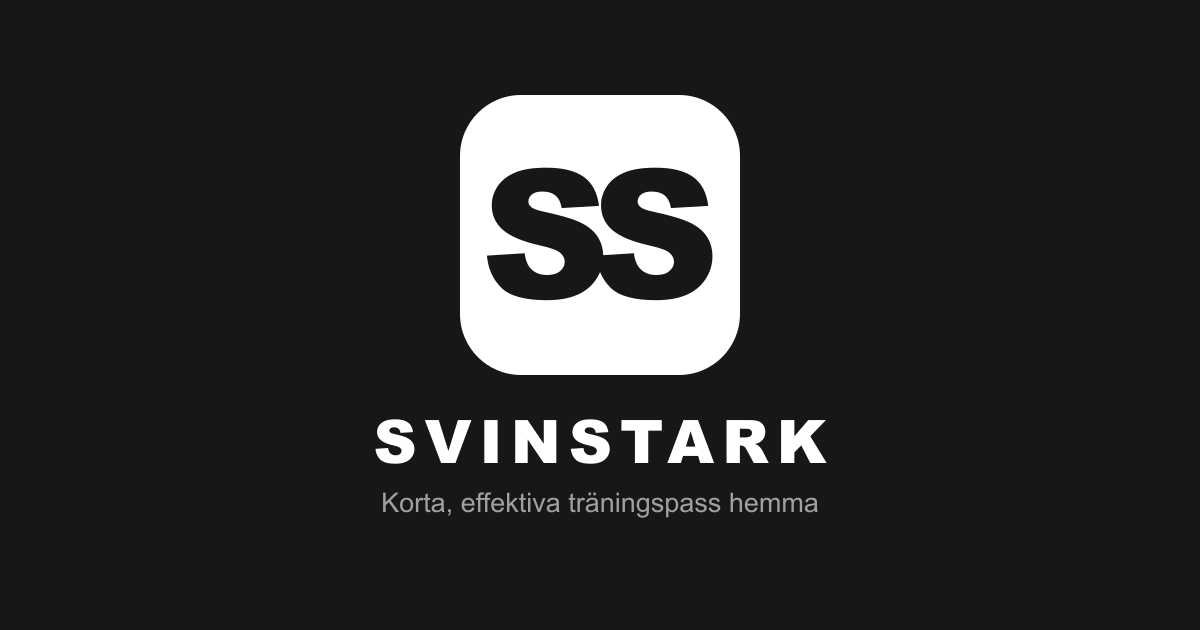
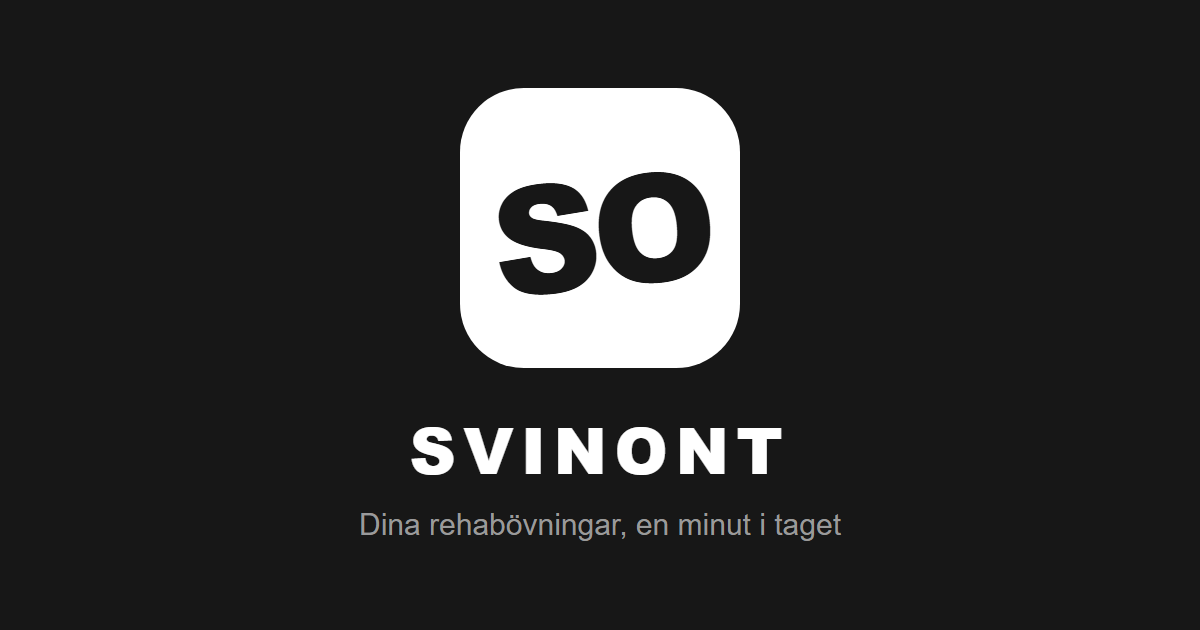
Polera texter, övningar och grafik inför mobiltest
- SO-märke i alla ikoner, favicon och og-bild (ersätter Svinstarks SS)
- Startsidan: "Funktion · Rörlighet · Kontroll", "14 övningar på 14
  minuter", hinttext borttagen
- Ensidiga övningar har nu "byt sida/ben efter halva tiden" e.d.
- Spanish squat ersatt med Wall sit (utan utrustning)
- Miniband/Gummiband -> Träningsband
- Slutsidan: endast "Till startsidan" som vit knapp
- Ny om-text med tydlig vårddisclaimer

diff --git a/src/data/rehabExercises.ts b/src/data/rehabExercises.ts
@@ -22,7 +22,7 @@ export const rehabExercises: Exercise[] = [
   {
     id: "thoracic-rotation",
     name: "Thorakal rotation",
-    instruction: "Rotera bröstryggen kontrollerat. Följ handen med blicken.",
+    instruction: "Rotera bröstryggen kontrollerat. Byt sida efter halva tiden.",
     category: "Mobilitet",
     focus: "Rygg",
     defaultDuration: DEFAULT_EXERCISE_DURATION_SECONDS,
@@ -41,7 +41,7 @@ export const rehabExercises: Exercise[] = [
     instruction: "Dra bandet isär framför bröstet. Kläm ihop skulderbladen.",
     category: "Styrka",
     focus: "Rygg",
-    equipment: "Gummiband",
+    equipment: "Träningsband",
     defaultDuration: DEFAULT_EXERCISE_DURATION_SECONDS,
   },
   {
@@ -50,13 +50,13 @@ export const rehabExercises: Exercise[] = [
     instruction: "Dra bandet mot ansiktet. Armbågarna högt, axlarna avslappnade.",
     category: "Styrka",
     focus: "Rygg",
-    equipment: "Gummiband",
+    equipment: "Träningsband",
     defaultDuration: DEFAULT_EXERCISE_DURATION_SECONDS,
   },
   {
     id: "bird-dog",
     name: "Bird dog",
-    instruction: "Sträck motsatt arm och ben. Håll bålen stabil.",
+    instruction: "Sträck motsatt arm och ben. Håll bålen stabil. Växla sida.",
     category: "Stabilitet",
     focus: "Rygg",
     defaultDuration: DEFAULT_EXERCISE_DURATION_SECONDS,
@@ -64,7 +64,7 @@ export const rehabExercises: Exercise[] = [
   {
     id: "dead-bug",
     name: "Dead bug",
-    instruction: "Ligg på rygg. Sänk motsatt arm och ben, håll ländryggen stilla.",
+    instruction: "Ligg på rygg. Sänk motsatt arm och ben, håll ländryggen stilla. Växla sida.",
     category: "Stabilitet",
     focus: "Rygg",
     defaultDuration: DEFAULT_EXERCISE_DURATION_SECONDS,
@@ -73,41 +73,40 @@ export const rehabExercises: Exercise[] = [
   {
     id: "single-leg-balance",
     name: "Enbensbalans",
-    instruction: "Stå stadigt på ett ben. Byt ben halvvägs.",
+    instruction: "Stå stadigt på ett ben. Byt ben efter halva tiden.",
     category: "Stabilitet",
     focus: "Knä",
     defaultDuration: DEFAULT_EXERCISE_DURATION_SECONDS,
   },
   {
-    id: "spanish-squat",
-    name: "Spanish squat",
-    instruction: "Band bakom knäna, sätt dig bakåt med rak rygg. (Alt: väggsittning.)",
+    id: "wall-sit",
+    name: "Wall sit",
+    instruction: "Sitt mot väggen med knäna i cirka 90 grader. Håll positionen.",
     category: "Styrka",
     focus: "Knä",
-    equipment: "Gummiband",
     defaultDuration: DEFAULT_EXERCISE_DURATION_SECONDS,
   },
   {
     id: "step-down",
     name: "Step-down",
-    instruction: "Kontrollerad sänkning. Låt knät följa fotens riktning.",
+    instruction: "Kontrollerad sänkning. Låt knät följa fotens riktning. Byt ben efter halva tiden.",
     category: "Styrka",
     focus: "Knä",
     defaultDuration: DEFAULT_EXERCISE_DURATION_SECONDS,
   },
   {
     id: "lateral-band-walk",
-    name: "Sidogång med miniband",
-    instruction: "Miniband runt benen. Gå i sidled med spänning i bandet.",
+    name: "Sidogång med träningsband",
+    instruction: "Träningsband runt benen. Gå i sidled, byt riktning efter halva tiden.",
     category: "Styrka",
     focus: "Knä",
-    equipment: "Miniband",
+    equipment: "Träningsband",
     defaultDuration: DEFAULT_EXERCISE_DURATION_SECONDS,
   },
   {
     id: "single-leg-hip-thrust",
     name: "Enbens höftlyft",
-    instruction: "Ett ben i golvet. Lyft höften rakt upp, sänk kontrollerat.",
+    instruction: "Ett ben i golvet. Lyft höften rakt upp, sänk kontrollerat. Byt ben efter halva tiden.",
     category: "Styrka",
     focus: "Knä",
     defaultDuration: DEFAULT_EXERCISE_DURATION_SECONDS,
@@ -115,7 +114,7 @@ export const rehabExercises: Exercise[] = [
   {
     id: "single-leg-calf-raise",
     name: "Enbens tåhävningar",
-    instruction: "Stå på ett ben. Res dig på tå och sänk långsamt.",
+    instruction: "Stå på ett ben. Res dig på tå och sänk långsamt. Byt ben efter halva tiden.",
     category: "Styrka",
     focus: "Knä",
     defaultDuration: DEFAULT_EXERCISE_DURATION_SECONDS,
@@ -123,7 +122,7 @@ export const rehabExercises: Exercise[] = [
   {
     id: "gentle-knee-mobility",
     name: "Lätt knärörlighet",
-    instruction: "Böj och sträck knät i skonsam, obelastad rörelse.",
+    instruction: "Böj och sträck knät i skonsam, obelastad rörelse. Byt ben efter halva tiden.",
     category: "Mobilitet",
     focus: "Knä",
     defaultDuration: DEFAULT_EXERCISE_DURATION_SECONDS,

diff --git a/src/components/AboutModal.tsx b/src/components/AboutModal.tsx
@@ -7,43 +7,28 @@ interface AboutModalProps {
   onClose: () => void;
 }
 
-// Kort om-text för Svinont. Uppdatera vid behov med disclaimer om att
-// övningarna inte ersätter medicinsk rådgivning.
 export default function AboutModal({ isOpen, onClose }: AboutModalProps) {
   return (
     <Modal isOpen={isOpen} onClose={onClose}>
       <div className={styles.text}>
         <h2 className={styles.title}>Om Svinont</h2>
 
-        <p className={styles.intro}>
-          Ett lugnt rehabprogram – tryck igång och följ med, en övning i taget.
-        </p>
         <p>
-          Systerapp till Svinstark med samma passupplägg: en tydlig timer,
-          ljudsignal vid varje ny övning och en nedräkning på slutet. Svinont kör
-          hela din rehab för rygg och knä varje gång, en minut per övning. Inga
-          val – ordningen varieras åt dig från pass till pass.
+          Svinont hjälper dig att genomföra ett enkelt dagligt rehabpass. Alla
+          övningar ingår i varje pass, men ordningen varierar för att skapa ett
+          omväxlande och balanserat upplägg.
         </p>
-
-        <h3>Så funkar det</h3>
-        <ul>
-          <li>Tryck Starta pass – programmet börjar direkt.</li>
-          <li>Varje övning pågår i en minut.</li>
-          <li>En signal ljuder när det är dags att byta.</li>
-        </ul>
 
         <p className={styles.disclaimer}>
-          Övningarna ersätter inte råd från läkare eller fysioterapeut. Följ det
-          som är ordinerat för just dig.
+          Appen ersätter inte individuell bedömning eller behandling av
+          fysioterapeut, läkare eller annan vårdpersonal. Anpassa alltid
+          träningen efter dina egna besvär och avbryt om smärtan ökar tydligt
+          eller om nya symtom uppstår.
         </p>
 
-        <h3>Feedback</h3>
         <p>
-          Har du synpunkter eller hittat en bugg?{" "}
-          <a className={styles.link} href="mailto:per.a.bjorkman@gmail.com">
-            Mejla mig
-          </a>
-          .
+          Målet är enkelt: mindre friktion, bättre kontinuitet och en rehab som
+          faktiskt blir av.
         </p>
       </div>
 

diff --git a/src/components/FinishedScreen.tsx b/src/components/FinishedScreen.tsx
@@ -1,14 +1,12 @@
-import PrimaryButton from "@/components/PrimaryButton";
 import styles from "./FinishedScreen.module.css";
 
 interface FinishedScreenProps {
-  onStartNew: () => void;
   onGoToStart: () => void;
 }
 
-// Avskalad slutsida: ett lugnt kvitto och två vägar vidare. Medvetet ingen
+// Avskalad slutsida: ett lugnt kvitto och en väg tillbaka. Medvetet ingen
 // statistik, poäng eller gamification - passet är klart, det räcker.
-export default function FinishedScreen({ onStartNew, onGoToStart }: FinishedScreenProps) {
+export default function FinishedScreen({ onGoToStart }: FinishedScreenProps) {
   return (
     <div className={styles.screen}>
       <div className={styles.message}>
@@ -17,12 +15,9 @@ export default function FinishedScreen({ onStartNew, onGoToStart }: FinishedScre
         <p className={styles.sub}>Vi ses imorgon.</p>
       </div>
 
-      <div className={styles.actions}>
-        <PrimaryButton onClick={onStartNew}>Starta nytt pass</PrimaryButton>
-        <button className={styles.secondaryButton} onClick={onGoToStart}>
-          Till startsidan
-        </button>
-      </div>
+      <button className={styles.homeButton} onClick={onGoToStart}>
+        Till startsidan
+      </button>
     </div>
   );
 }

diff --git a/src/components/StartScreen.tsx b/src/components/StartScreen.tsx
@@ -8,7 +8,7 @@ import PrimaryButton from "@/components/PrimaryButton";
 import { rehabExercises } from "@/data/rehabExercises";
 import styles from "./StartScreen.module.css";
 
-const valueProps = ["Rehab", "Rörlighet", "Skonsamt"];
+const valueProps = ["Funktion", "Rörlighet", "Kontroll"];
 
 // Antal övningar × en minut = programmets totala längd.
 const exerciseCount = rehabExercises.length;
@@ -44,9 +44,8 @@ export default function StartScreen({ onStart }: StartScreenProps) {
 
       <div className={styles.summary}>
         <p className={styles.summaryLine}>
-          {exerciseCount} övningar · ca {exerciseCount} min
+          {exerciseCount} övningar på {exerciseCount} minuter
         </p>
-        <p className={styles.summaryHint}>Dagens rehab för rygg och knä. Tryck igång och följ med.</p>
       </div>
 
       <PrimaryButton onClick={onStart}>Starta pass</PrimaryButton>

diff --git a/src/components/FinishedScreen.module.css b/src/components/FinishedScreen.module.css
@@ -27,21 +27,19 @@
   color: var(--muted);
 }
 
-.actions {
+/* Vit knapp: samma form som PrimaryButton men vit bakgrund med mörk text.
+   Kantlinjen behövs för att knappen ska synas mot ljus bakgrund i ljust läge. */
+.homeButton {
   width: 100%;
   max-width: 22rem;
-  display: flex;
-  flex-direction: column;
-  align-items: center;
-  gap: 1rem;
-}
-
-.secondaryButton {
-  min-height: 44px;
-  padding: 0.5rem 1rem;
-  border: none;
-  background: transparent;
-  color: var(--muted);
-  font-size: 1rem;
+  min-height: 56px;
+  padding: 0.75rem 1.5rem;
+  border: 1px solid var(--border);
+  border-radius: 14px;
+  background: #ffffff;
+  color: #171717;
+  font-size: 1.25rem;
+  font-weight: 700;
+  letter-spacing: 0.02em;
   cursor: pointer;
 }

diff --git a/src/components/AboutModal.module.css b/src/components/AboutModal.module.css
@@ -12,43 +12,13 @@
   margin-bottom: 0.25rem;
 }
 
-.text h3 {
-  font-size: 1rem;
-  font-weight: 700;
-  margin-top: 0.5rem;
-}
-
-.text p,
-.text li {
+.text p {
   font-size: 0.9rem;
   line-height: 1.5;
   color: var(--muted);
 }
 
-.text ul {
-  padding-left: 1.25rem;
-  display: flex;
-  flex-direction: column;
-  gap: 0.25rem;
-}
-
-.text strong {
-  color: var(--foreground);
-  font-weight: 700;
-}
-
-.text p.intro {
-  color: var(--foreground);
-  font-weight: 700;
-  font-size: 1rem;
-}
-
 .text p.disclaimer {
-  margin-top: 0.5rem;
   font-size: 0.85rem;
   font-style: italic;
-}
-
-.link {
-  color: var(--foreground);
 }

diff --git a/src/hooks/useWorkout.ts b/src/hooks/useWorkout.ts
@@ -43,8 +43,7 @@ export function useWorkout(soundEnabled: boolean) {
   // Skärmen ska inte dimmas/släckas så länge ett pass pågår, även vid paus.
   useWakeLock(workout !== null);
 
-  // Passet byggs och startar direkt vid knapptryckningen. Används både från
-  // startsidan och från slutsidans "Starta nytt pass".
+  // Passet byggs och startar direkt vid knapptryckningen.
   function start() {
     // Måste ske synkront här, i själva knapptryckningen, annars förblir
     // ljudet permanent avstängt på mobila webbläsare (se lib/audio.ts).

diff --git a/src/types/workout.ts b/src/types/workout.ts
@@ -19,7 +19,7 @@ export interface Exercise {
   instruction: string;
   category: ExerciseCategory;
   focus: FocusArea;
-  // Utrustning som behövs, t.ex. "Miniband". Utelämnas om ingen krävs.
+  // Utrustning som behövs, t.ex. "Träningsband". Utelämnas om ingen krävs.
   equipment?: string;
   // Standardtid i sekunder. Alla rehabövningar körs i 60 sekunder.
   defaultDuration: number;

diff --git a/src/app/page.tsx b/src/app/page.tsx
@@ -27,7 +27,7 @@ export default function Home() {
   }
 
   if (screen === "finished") {
-    return <FinishedScreen onStartNew={start} onGoToStart={goToStart} />;
+    return <FinishedScreen onGoToStart={goToStart} />;
   }
 
   if (!currentBlock || !workout) return null;

diff --git a/src/components/StartScreen.module.css b/src/components/StartScreen.module.css
@@ -74,10 +74,3 @@
   font-weight: 600;
   color: var(--foreground);
 }
-
-.summaryHint {
-  font-size: 0.9rem;
-  line-height: 1.4;
-  color: var(--muted);
-  max-width: 22rem;
-}

diff --git a/README.md b/README.md
@@ -36,5 +36,3 @@ npm run dev
 - **Justera övningarna** i `src/data/rehabExercises.ts` efter det som är
   ordinerat för dig. De som ligger där nu är generiska rehabövningar, inte en
   medicinsk ordination.
-- Ersätt platshållar-ikonerna i `public/icons/` och `public/og-image.png`
-  (kopior från Svinstark – visar fortfarande SS-märket).
